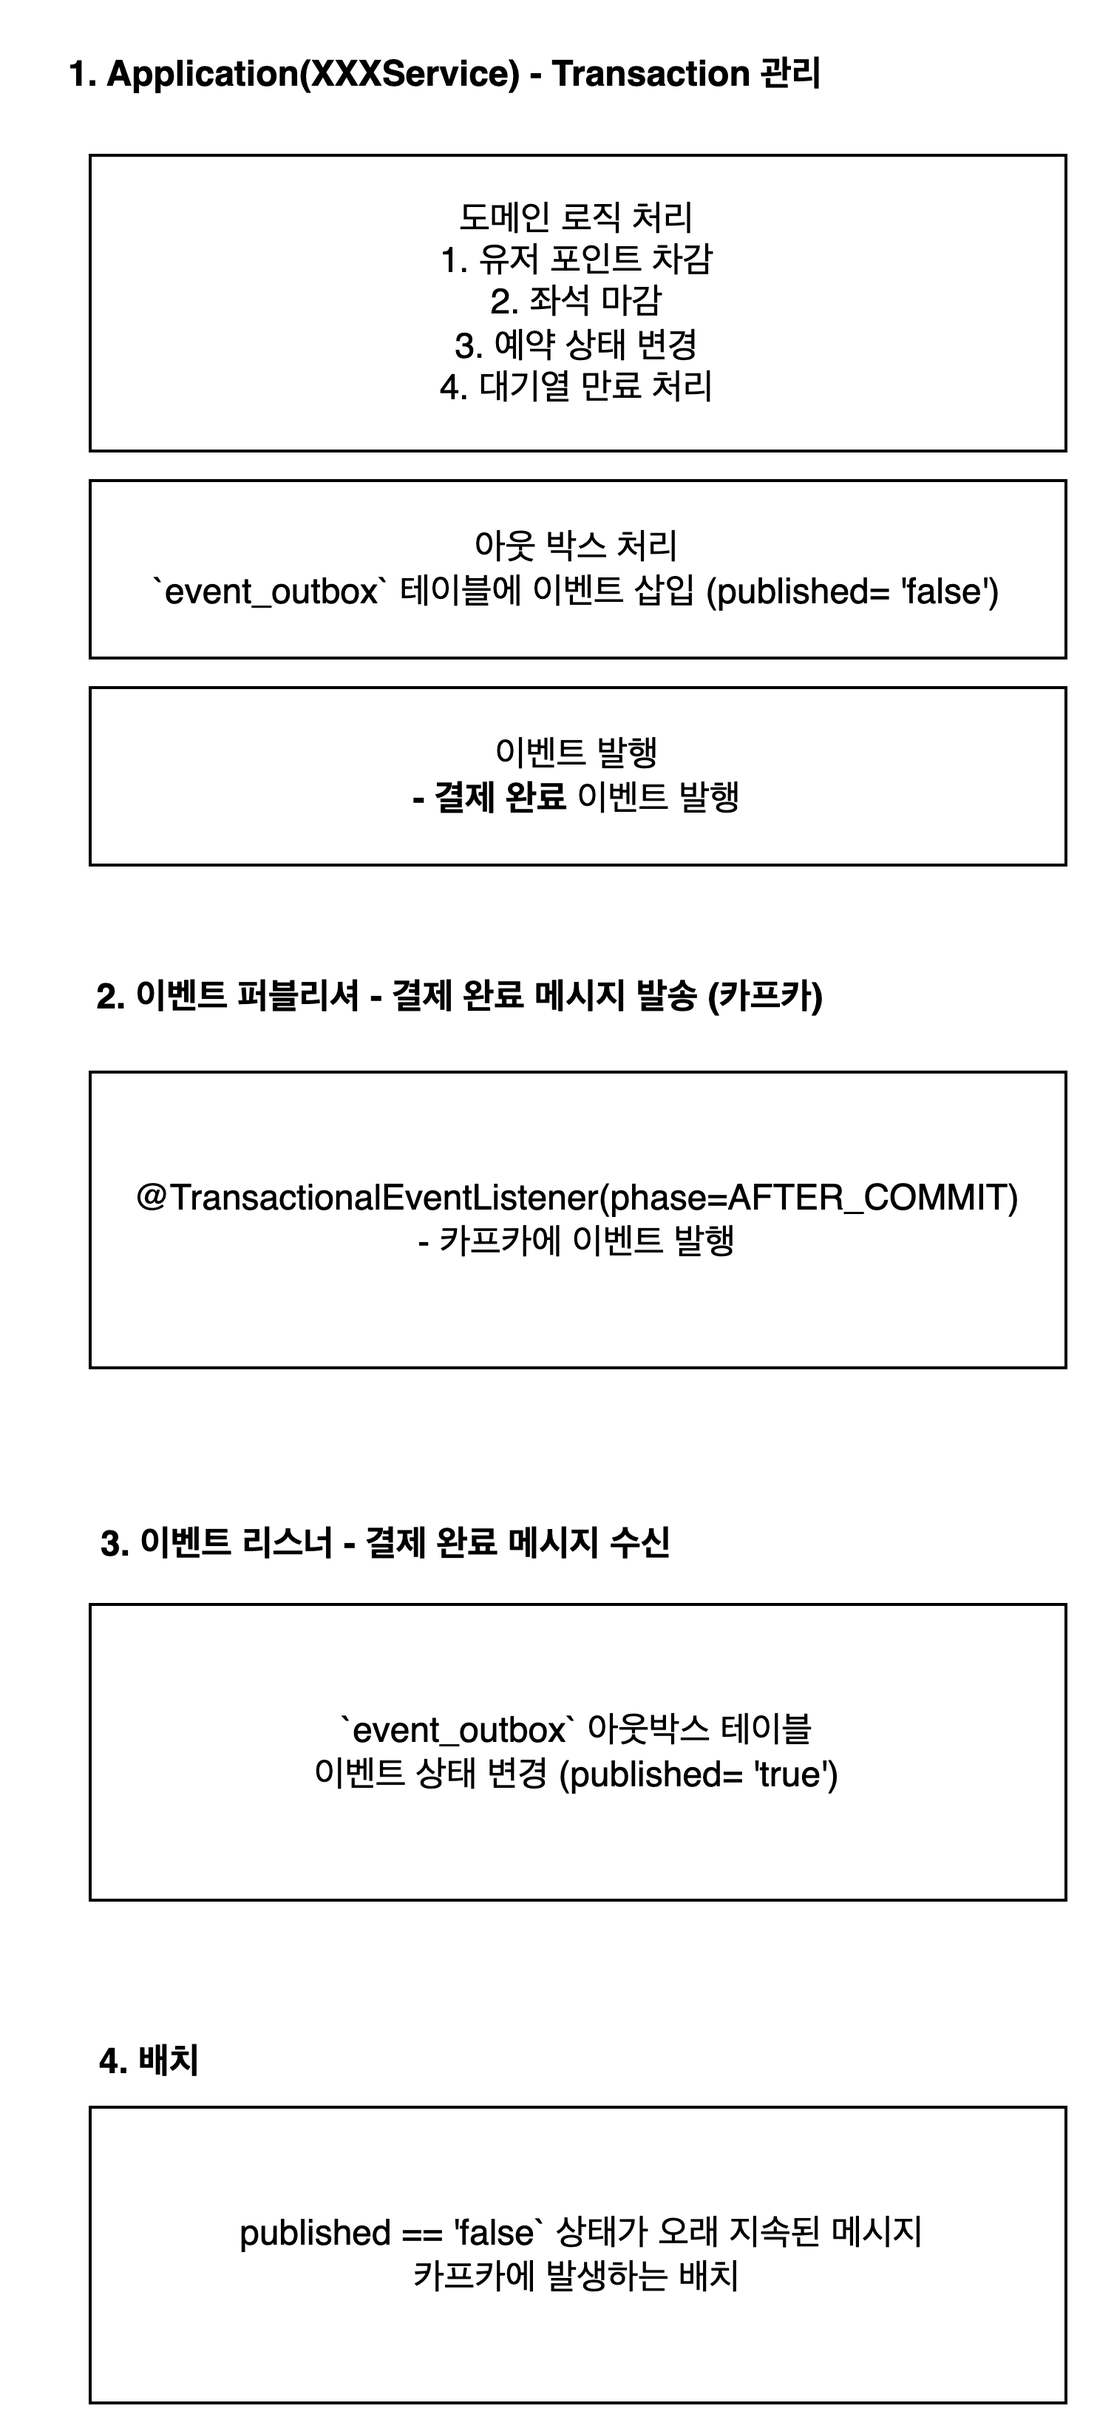
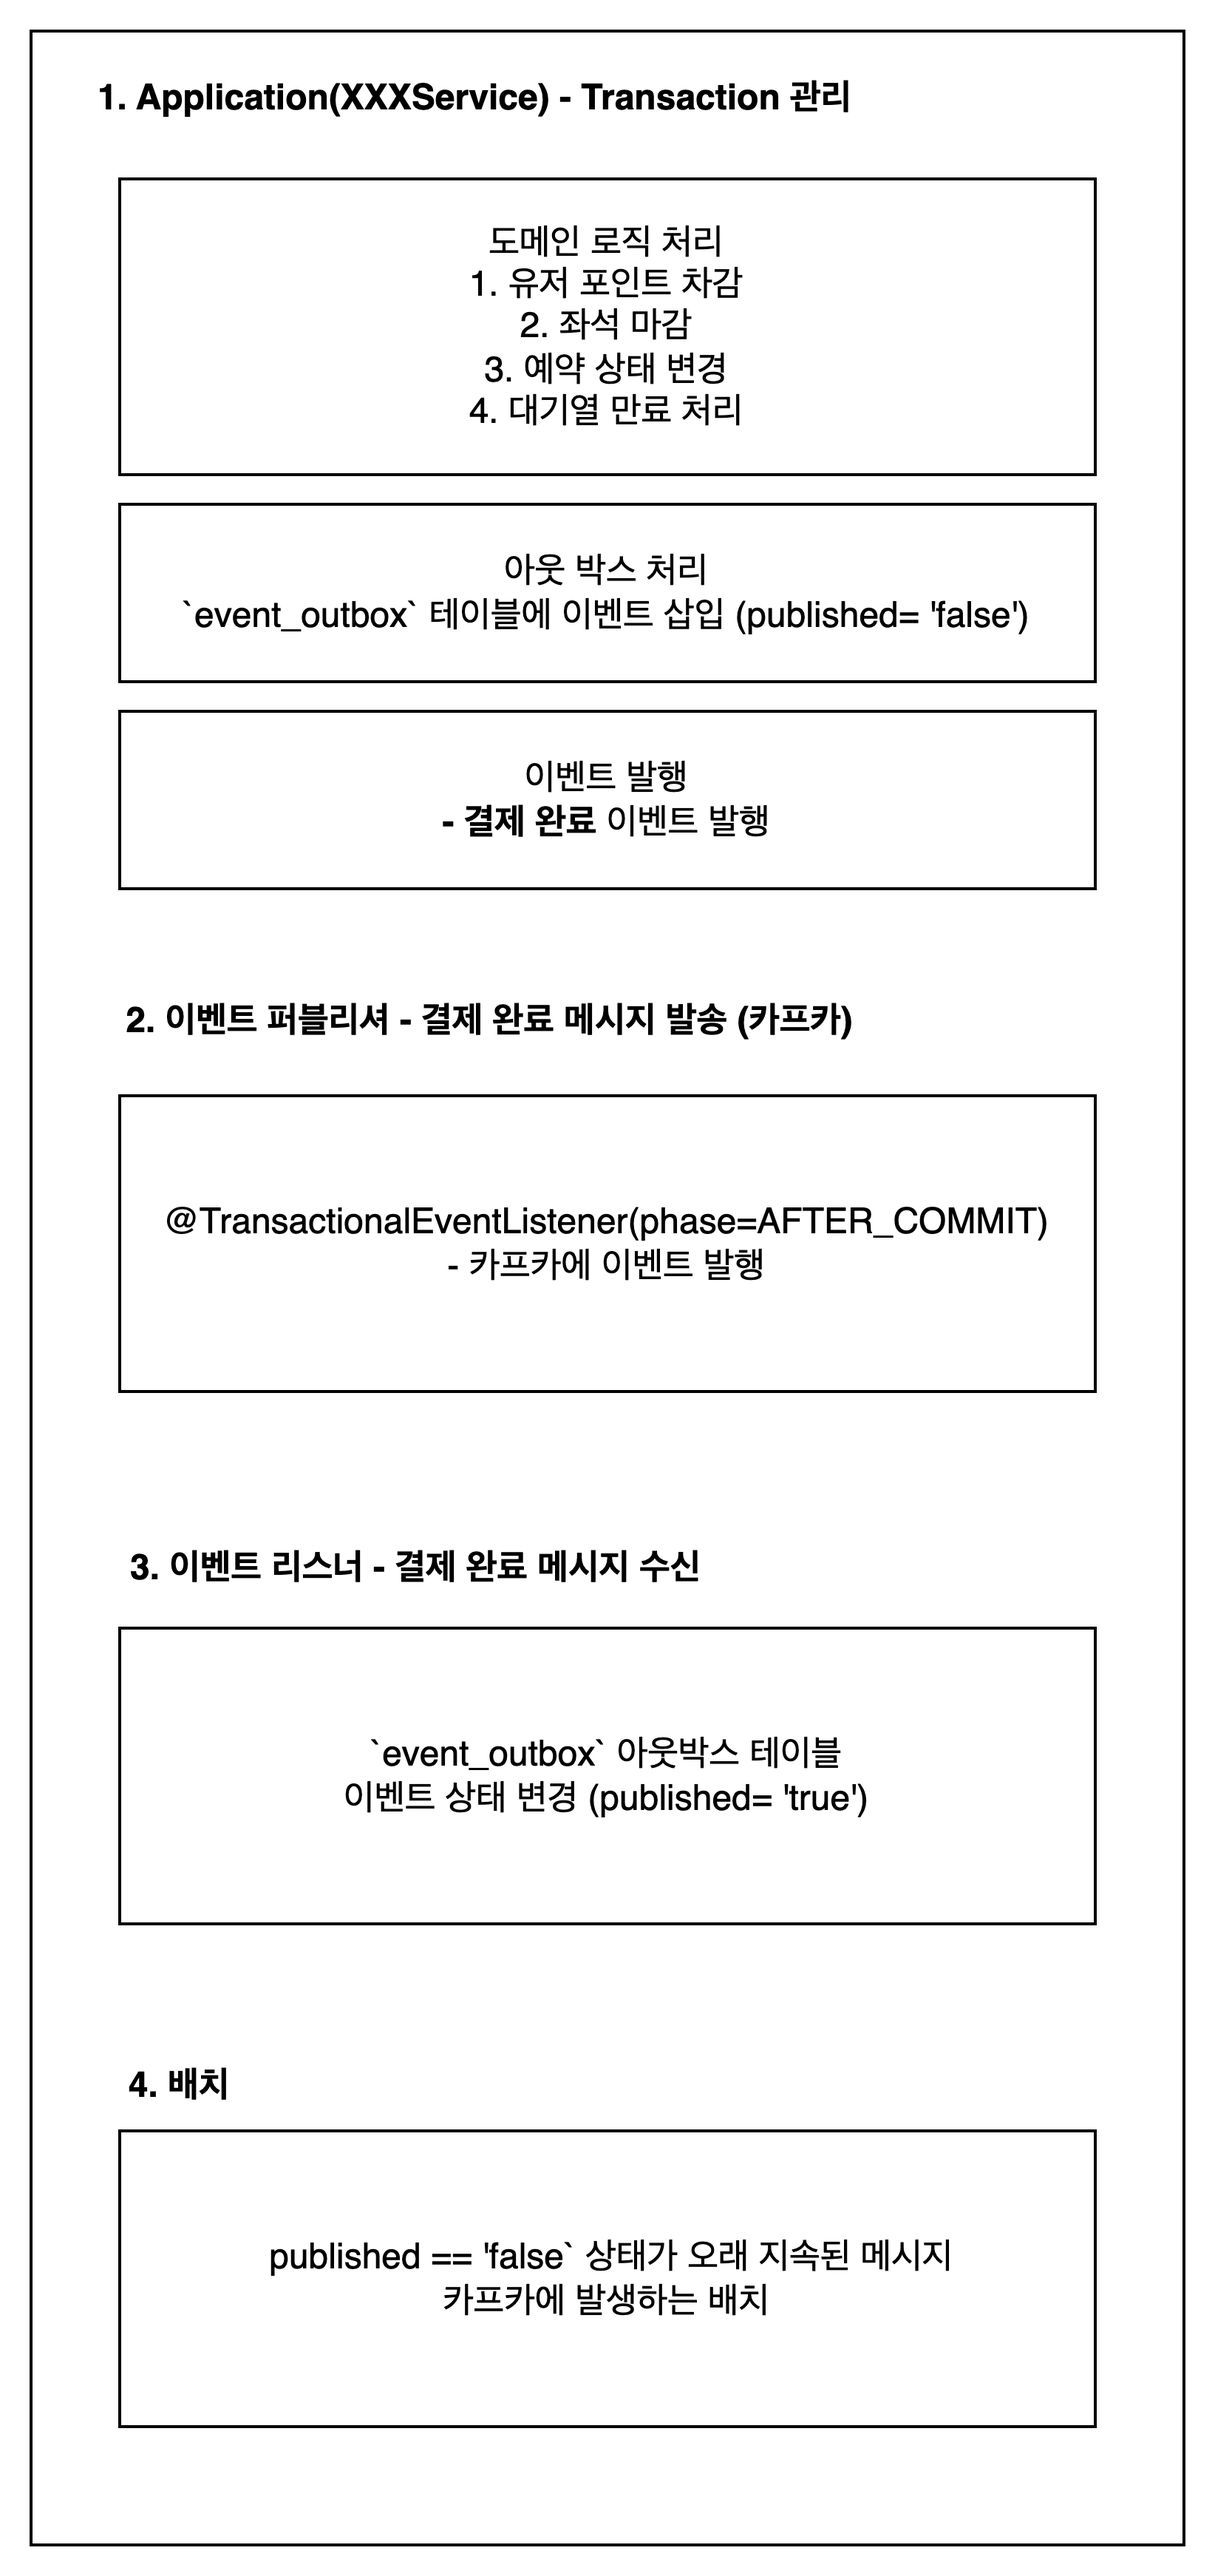
docs: markdown 문법, 이미지 수정

diff --git a/docs/markdown/10. 9주차-Transactional OutBox Pattern.md b/docs/markdown/10. 9주차-Transactional OutBox Pattern.md
@@ -49,7 +49,7 @@
 
 만약, 상태 변경 요청까지는 끝나서 커밋이 끝나고, 이벤트 발행 하는 순간 서버가 다운되면 **외부 결제 정보가 사라진다.**
 
-트랜잭션 내부에 있다면, 원자성이 보장되어서 모든 요청이 __성공__하거나 모든 요청이 __실패__할 것이다.
+트랜잭션 내부에 있다면, 원자성이 보장되어서 모든 요청이 __성공__ 하거나 모든 요청이 __실패__ 할 것이다.
 
 그러나 카프카에 메시지를 보내는 요청은 **트랜잭션 내부에 존재하지 않는다.**
 
@@ -57,14 +57,14 @@
 
 ![10.5](https://github.com/hpp-backend-15/java-concert-joonhyeokyang/blob/step18/docs/img/10-5.png)
 
-우리가 원하는건 다음 그림이다.
+우리가 원하는건 다음 그림이다.  
 
-1. 도메인 로직이 아닌 외부 결제 정보 전송은 분리하되,
-2. 같은 트랜잭션처럼 외부 결제 정보 전송을 보장하도록! (그러나, 외부 결제 정보 전송 실패가 결제 로직이 실패가 되진 않도록!)
+1. 도메인 로직이 아닌 외부 결제 정보 전송은 분리하되,  
+2. 같은 트랜잭션처럼 외부 결제 정보 전송을 보장하도록! (그러나, 외부 결제 정보 전송 실패가 결제 로직이 실패가 되진 않도록!). 
 
-이때, **트랜잭셔널 아웃 박스 패턴 (Transactional Outbox Pattern)**을 이용한다.
+이때, **트랜잭셔널 아웃 박스 패턴 (Transactional Outbox Pattern)** 을 이용한다.  
 
-Outbox는 메일함이다. 트랜잭션을 이용하는 **메일함** 하나 두자! 라고 생각해보자!
+Outbox는 메일함이다. 트랜잭션을 이용하는 **메일함** 하나 두자! 라고 생각해보자!  
 
 아래 그림을 통해 실제 처리하려는 작업을 표현했다.
 ![10.6](https://github.com/hpp-backend-15/java-concert-joonhyeokyang/blob/step18/docs/img/10-6.png)
@@ -78,8 +78,10 @@ Outbox는 메일함이다. 트랜잭션을 이용하는 **메일함** 하나 두
 | O               | X                  | 관리 가능한 실패    | 카프카 메시지 발송 시도 중 모종의 이유로 실패한 경우, `4`의 배치를 이용하여 메시지 재전송                 |
 | X               | X                  | 실패           | 비지니스 로직도, 메시지 전송도 아예 실패한 경우. 그러나 정합성은 보장된다                            |
 
-정리된 표에서 알 수 있듯이, 도메인 로직과 메시지 발송이 성공하거나 실패할 수 있다.     
+정리된 표에서 알 수 있듯이, 도메인 로직과 메시지 발송이 성공하거나 실패할 수 있다.      
+
 그러나, 모든 경우에서 `결과적 일관성`을 모두 보장할 수 있다.
+
 **즉, 트랜잭션 아웃박스 패턴은 외부 메시징 시스템을 이용할 때 `결과적 일관성`을 보장하는 전략이다.**
 
 
